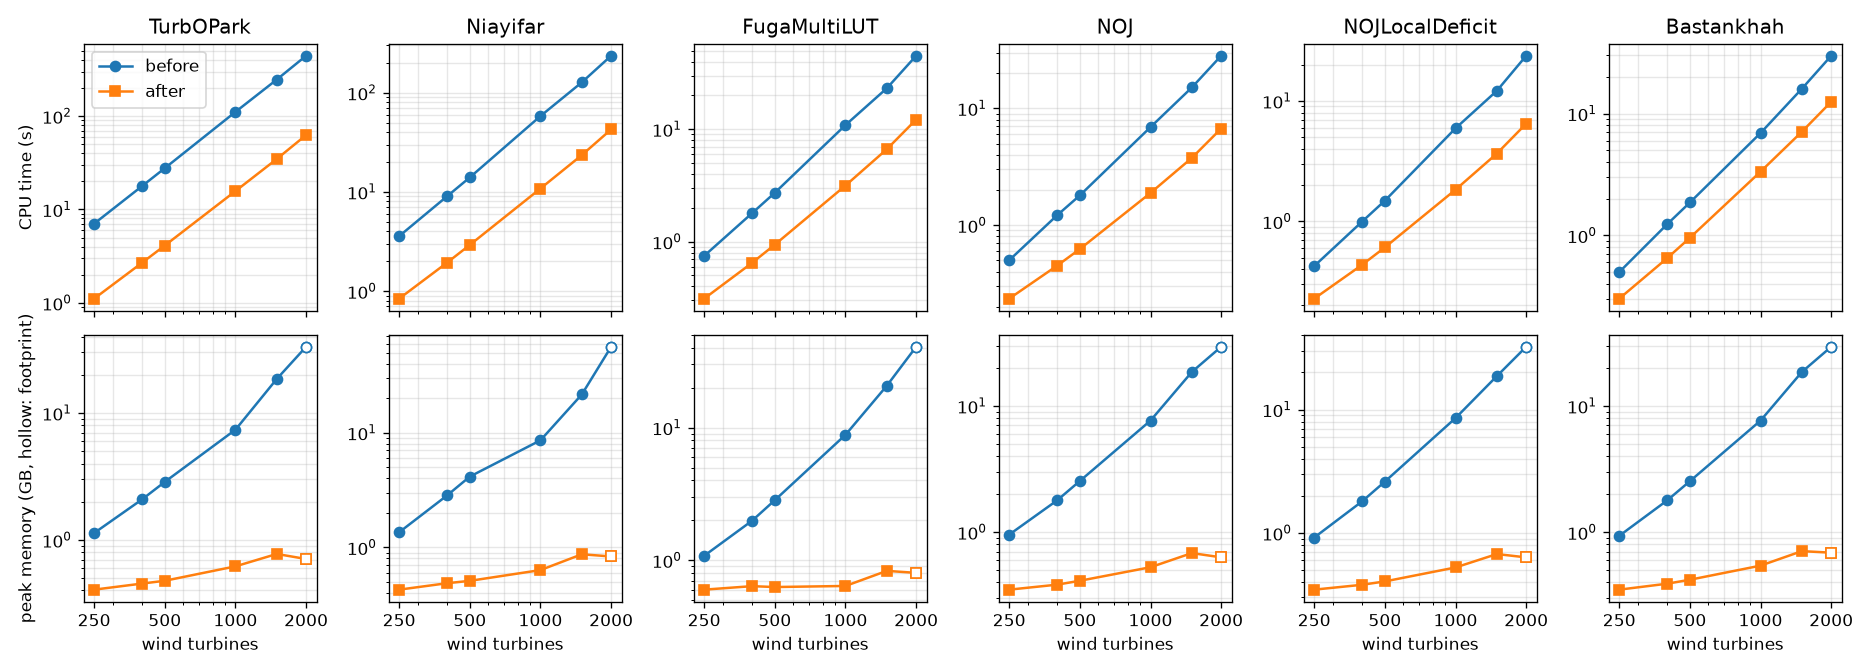
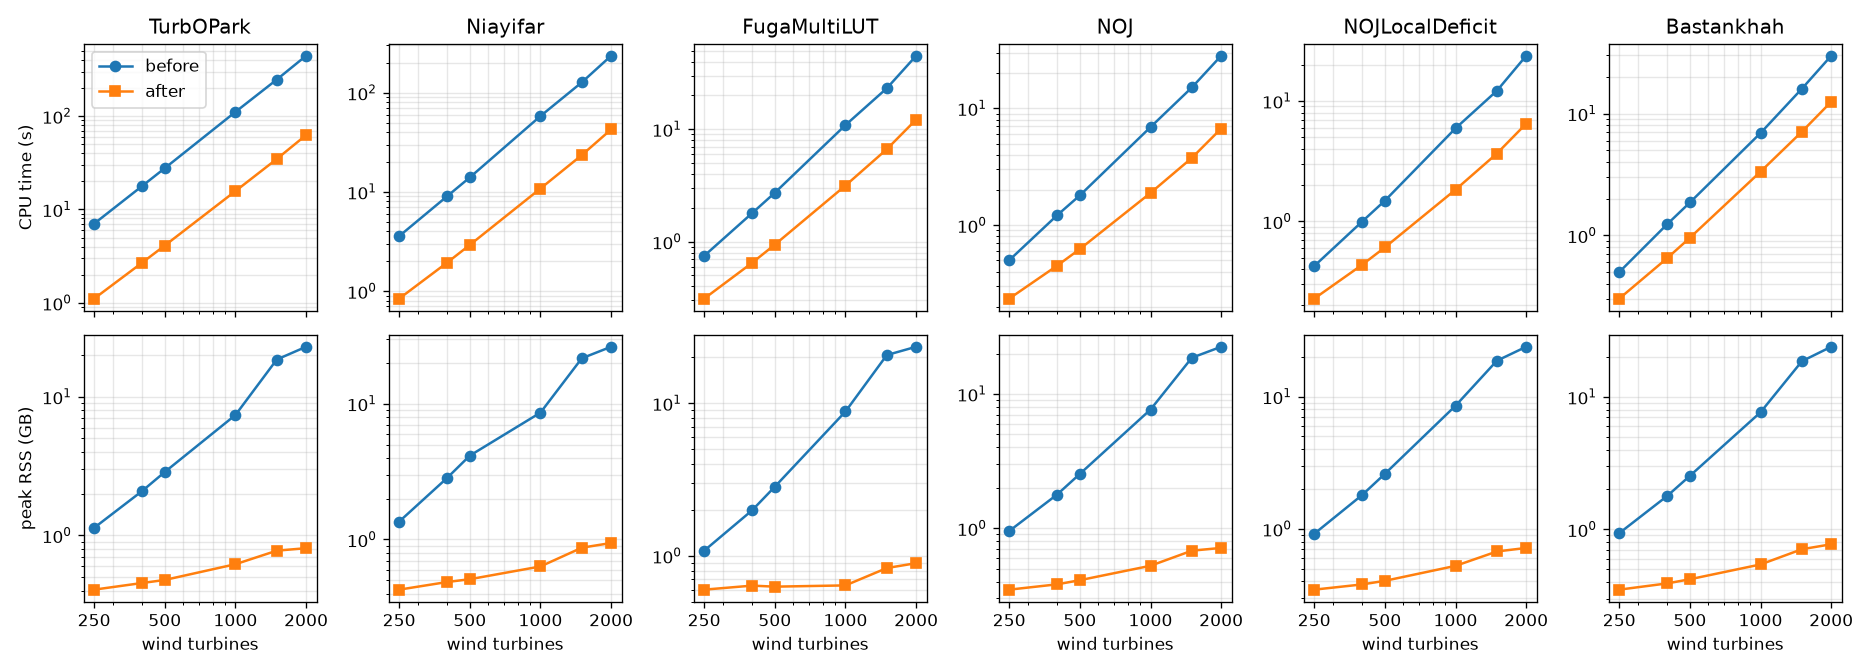
report peak rss for every farm size in the result tables and charts

diff --git a/bench/charts.py b/bench/charts.py
@@ -12,7 +12,7 @@ FARM_TICKS = [250, 500, 1000, 2000]
 
 
 def scaling(args):
-    rows = comparisons(args.inputs, args.footprint)
+    rows = comparisons(args.inputs)
     models = [model for model in MODELS if any(row_model == model for _, row_model in rows)]
     figure, axes = plt.subplots(2, len(models), figsize=(2.6 * len(models), 5.6), sharex=True, squeeze=False)
     for column, model in enumerate(models):
@@ -21,15 +21,7 @@ def scaling(args):
             done = [(size, sides[side]) for size, sides in points if "failed" not in sides[side]]
             sizes = [size for size, _ in done]
             line = axes[0, column].plot(sizes, [run["cpu"] for _, run in done], style, label=label)[0]
-            axes[1, column].plot(sizes, [run["memory"] / GB for _, run in done], style, color=line.get_color())
-            footprints = [(size, run) for size, run in done if run["is_footprint"]]
-            axes[1, column].plot(
-                [size for size, _ in footprints],
-                [run["memory"] / GB for _, run in footprints],
-                style[0],
-                color=line.get_color(),
-                markerfacecolor="white",
-            )
+            axes[1, column].plot(sizes, [run["rss"] / GB for _, run in done], style, color=line.get_color())
         axes[0, column].set_title(MODELS[model])
         axes[1, column].set_xlabel("wind turbines")
         for axis in axes[:, column]:
@@ -39,7 +31,7 @@ def scaling(args):
         axes[1, column].set_xticks(FARM_TICKS, [str(size) for size in FARM_TICKS])
         axes[1, column].xaxis.set_minor_formatter(NullFormatter())
     axes[0, 0].set_ylabel("CPU time (s)")
-    axes[1, 0].set_ylabel("peak memory (GB, hollow: footprint)")
+    axes[1, 0].set_ylabel("peak RSS (GB)")
     axes[0, 0].legend()
     figure.tight_layout()
     figure.savefig(args.out, dpi=120)
@@ -77,9 +69,6 @@ def main():
     commands = parser.add_subparsers(dest="command", required=True)
     scaling_parser = commands.add_parser("scaling", help="time and memory against farm size, later files win")
     scaling_parser.add_argument("inputs", nargs="+")
-    scaling_parser.add_argument(
-        "--footprint", nargs="*", default=[], help="reports whose memory is the footprint, applied last"
-    )
     scaling_parser.add_argument("--out", required=True)
     waterfall_parser = commands.add_parser("waterfall", help="speed-up and memory after each commit")
     waterfall_parser.add_argument("input")

diff --git a/bench/tables.py b/bench/tables.py
@@ -39,7 +39,7 @@ def compare(args):
     print("| Farm | Model | Time before | Time after | Speed-up | Memory before | Memory after | Less memory |")
     print("| --- | --- | ---: | ---: | ---: | ---: | ---: | ---: |")
     previous = None
-    for (size, model), sides in comparisons(args.inputs, args.footprint).items():
+    for (size, model), sides in comparisons(args.inputs).items():
         if args.farms and size not in args.farms:
             continue
         base, head = sides["base"], sides["head"]
@@ -50,9 +50,9 @@ def compare(args):
             time_cell(base),
             time_cell(head),
             factor(base["cpu"] / head["cpu"]) if complete else "-",
-            memory_cell(base["memory"], base),
-            memory_cell(head["memory"], head),
-            factor(base["memory"] / head["memory"]) if complete else "-",
+            memory_cell(base["rss"], base),
+            memory_cell(head["rss"], head),
+            factor(base["rss"] / head["rss"]) if complete else "-",
         ]
         previous = size
         print(markdown_row(cells))
@@ -90,9 +90,6 @@ def main():
     commands = parser.add_subparsers(dest="command", required=True)
     compare_parser = commands.add_parser("compare", help="one table from speed.py reports, later files win")
     compare_parser.add_argument("inputs", nargs="+")
-    compare_parser.add_argument(
-        "--footprint", nargs="*", default=[], help="reports whose memory is the footprint, applied last"
-    )
     compare_parser.add_argument("--farms", nargs="*", type=int, help="farm sizes to keep")
     waterfall_parser = commands.add_parser("waterfall", help="per-commit tables from a waterfall.py report")
     waterfall_parser.add_argument("input")

diff --git a/bench/results.py b/bench/results.py
@@ -24,20 +24,12 @@ def farm_size(farm):
     return int(match.group(1)) if match else None
 
 
-def memory(side, footprint):
-    return side["footprint"] if footprint else side["rss"]
-
-
-def comparisons(paths, footprint_paths=()):
+def comparisons(paths):
     rows = {}
-    for path in [*paths, *footprint_paths]:
+    for path in paths:
         for case, sides in read(path)["results"].items():
             model, farm = case.split("-")
             size = farm_size(farm)
             if size and model in MODELS:
-                footprint = path in footprint_paths
-                rows[size, model] = {
-                    side: {**sides[side], "memory": memory(sides[side], footprint), "is_footprint": footprint}
-                    for side in ("base", "head")
-                }
+                rows[size, model] = {side: sides[side] for side in ("base", "head")}
     return dict(sorted(rows.items(), key=lambda item: (item[0][0], list(MODELS).index(item[0][1]))))

diff --git a/bench/RESULTS.md b/bench/RESULTS.md
@@ -1,31 +1,45 @@
+---
+created: 2026-11-02T08:41
+updated: 2026-11-02T09:19
+---
 # Results
 
-Upstream `master` (before, `586aec8e`) against `performance` (after, library code at `e578ba85`).
-Every change keeps the simulation results byte-identical to `master`, and no upstream test that
-passes on `master` fails on `performance`.
+Upstream `master` (before, `586aec8e`) compared with `performance` (after, library code at
+`e578ba85`). Every change keeps the simulation results byte-identical to `master`, and no upstream
+test that passes on `master` fails on `performance`.
 
-- 1.9-7.1x faster on one thread on farms of 400-2000 turbines: TurbOPark (`Nygaard_2022`) 6.6-7.1x,
-  Niayifar 4.7-5.5x, FugaMultiLUT 2.8-3.7x, NOJ 2.7-4.2x, `NOJLocalDeficit` 2.3-3.7x, Bastankhah
-  1.9-2.4x.
-- 3-68x less peak memory. After, it stays under 1 GB up to 2000 turbines (0.38-0.64 GB at 400).
-  `master` grows with the square of the turbine count and needs 29-56 GB at 2000 turbines,
-  where its RSS saturates at 22-26 GB on this 36 GB machine and macOS compresses the rest.
-- `WS_eff`, `TI_eff`, `CT`, `Power` and AEP are byte-identical (`tobytes()`) to `master` on every
-  benchmark case below.
+- 1.9-7.1x faster on one thread for farms of 400-2000 turbines: TurbOPark (`Nygaard_2022`)
+  6.6-7.1x, Niayifar 4.7-5.5x, FugaMultiLUT 2.8-3.7x, NOJ 2.7-4.2x, `NOJLocalDeficit` 2.3-3.7x and
+  Bastankhah 1.9-2.4x.
+- 3-33x less peak memory. After, a simulation stays under 1 GB up to 2000 turbines. Before, memory
+  grows with the square of the turbine count and no longer fits in 36 GB of RAM at 2000 turbines.
+- `WS_eff`, `TI_eff`, `CT`, `Power` and AEP are byte-identical (`tobytes()`) to `master` in every
+  benchmark case.
 
 ## Before and after
 
-Apple M4 Max (36 GB RAM), Python 3.12.16, numpy 2.5.4, numba 0.68.0, xarray 2026.9.0, one thread.
-Models (`cases.py`): TurbOPark is `Nygaard_2022`, Niayifar is `Niayifar_PorteAgel_2016`, NOJ is `NOJ`,
-`NOJLocalDeficit` uses `ct2a_mom1d`, area overlap and `LinearSum` in `PropagateDownwind`, Bastankhah
-is `IEA37SimpleBastankhahGaussian` and FugaMultiLUT is `FugaMultiLUTDeficit` with two LUTs. Farms: two turbine types, 72 wind directions x 22 wind speeds (`scale<N>` in `cases.py`; `scale400`
-is `grid400`). Times are the CPU time of one simulation call, the median over fresh processes that
-alternate before and after (400 turbines: 5 pairs, 1000 and 1500: 3 pairs, 2000: 1 pair). Memory is
-the peak RSS of the process, except at 2000 turbines: `master` no longer fits in RAM there (its RSS
-saturates at 22-26 GB while macOS compresses the rest), so that row shows the physical footprint, and
-`master`'s time there includes compression and paging. Each process at 2000 turbines ran one
-simulation, so the after times there include numba compilation. At 1500 turbines the footprint of `master`
-was 32.1 GB for Niayifar and 23.1 GB for FugaMultiLUT, above the RSS shown.
+Apple M4 Max with 36 GB RAM, Python 3.12.16, numpy 2.5.4, numba 0.68.0 and xarray 2026.9.0, one
+thread. Each farm has two turbine types and 72 wind directions x 22 wind speeds (`scale<N>` in
+`cases.py`; `scale400` is `grid400`). The models, from `cases.py`:
+
+| Name | Model |
+| --- | --- |
+| TurbOPark | `Nygaard_2022` |
+| Niayifar | `Niayifar_PorteAgel_2016` |
+| FugaMultiLUT | `FugaMultiLUTDeficit` with two LUTs |
+| NOJ | `NOJ` |
+| NOJLocalDeficit | `NOJLocalDeficit` with `ct2a_mom1d`, area overlap and `LinearSum` in `PropagateDownwind` |
+| Bastankhah | `IEA37SimpleBastankhahGaussian` |
+
+Time is the CPU time of one simulation call: the median over fresh processes that alternate before
+and after (5 pairs at 400 turbines, 3 at 1000 and 1500, 1 at 2000). Memory is the peak RSS of the
+process.
+
+At 2000 turbines `master` no longer fits in RAM. Its RSS saturates at 22-26 GB while macOS
+compresses the rest (physical footprint 29-56 GB), so the memory ratios in that row are lower
+bounds and the before times include compression and paging. The same holds for Niayifar and
+FugaMultiLUT at 1500 turbines, where the footprint of `master` was 32.1 and 23.1 GB. Each process at
+2000 turbines ran a single simulation, so the after times there include numba compilation.
 
 | Farm | Model | Time before | Time after | Speed-up | Memory before | Memory after | Less memory |
 | --- | --- | ---: | ---: | ---: | ---: | ---: | ---: |
@@ -47,23 +61,24 @@ was 32.1 GB for Niayifar and 23.1 GB for FugaMultiLUT, above the RSS shown.
 | | NOJ | 15.1 s | 3.8 s | 4.0x | 18.6 GB | 0.68 GB | 27x |
 | | NOJLocalDeficit | 12.2 s | 3.7 s | 3.3x | 18.7 GB | 0.67 GB | 28x |
 | | Bastankhah | 16.0 s | 7.1 s | 2.3x | 18.6 GB | 0.71 GB | 26x |
-| 2000 WTGs | TurbOPark | 443 s | 62.7 s | 7.1x | 33.3 GB | 0.71 GB | 47x |
-| | Niayifar | 236 s | 42.6 s | 5.5x | 56.3 GB | 0.83 GB | 68x |
-| | FugaMultiLUT | 45.1 s | 12.2 s | 3.7x | 40.7 GB | 0.80 GB | 51x |
-| | NOJ | 28.2 s | 6.7 s | 4.2x | 29.5 GB | 0.63 GB | 47x |
-| | NOJLocalDeficit | 23.8 s | 6.5 s | 3.7x | 32.3 GB | 0.63 GB | 51x |
-| | Bastankhah | 29.8 s | 12.5 s | 2.4x | 29.4 GB | 0.69 GB | 43x |
+| 2000 WTGs | TurbOPark | 443 s | 62.7 s | 7.1x | 23.0 GB | 0.81 GB | 28x |
+| | Niayifar | 236 s | 42.6 s | 5.5x | 26.2 GB | 0.94 GB | 28x |
+| | FugaMultiLUT | 45.1 s | 12.2 s | 3.7x | 23.5 GB | 0.89 GB | 26x |
+| | NOJ | 28.2 s | 6.7 s | 4.2x | 22.5 GB | 0.71 GB | 31x |
+| | NOJLocalDeficit | 23.8 s | 6.5 s | 3.7x | 23.8 GB | 0.72 GB | 33x |
+| | Bastankhah | 29.8 s | 12.5 s | 2.4x | 23.9 GB | 0.77 GB | 31x |
 
 ![Time and peak memory against farm size](scaling.png)
 
-In the chart, 250 and 500 turbines are included (`scale250`, `scale500`) and hollow markers are the
-physical footprint, as in the 2000 row.
+The chart adds 250 and 500 turbines (`scale250`, `scale500`). The before memory curve flattens
+between 1500 and 2000 turbines because RSS saturates in RAM there; the footprint keeps growing.
 
 ## Where the gain comes from
 
-`grid400` (400 turbines), 3 alternating pairs per commit, median CPU time; the cumulative speed-up
-over `master` is in brackets. Each row is one commit on `performance`, oldest first. These are
-separate runs from the table above, so the last row differs from its 400-turbine rows by up to 0.1x.
+Each row is one commit on `performance` that changes library code, oldest first, timed on `grid400`
+(400 turbines) as the median CPU time of 3 alternating pairs. The cumulative speed-up over `master`
+is in brackets. These runs are separate from the table above, so the last row can differ from its
+400-turbine rows by up to 0.1x.
 
 ![Speed-up and peak memory after each commit](waterfall.png)
 
@@ -93,80 +108,58 @@ separate runs from the table above, so the last row differs from its 400-turbine
 | 5ec051b2 | compute the masked crespo added turbulence in one compiled loop | 2.7 s (6.6x) | 1.9 s (4.6x) | 0.92 s (1.9x) | 0.45 s (2.6x) | 0.44 s (2.2x) | 0.65 s (1.8x) |
 | e578ba85 | start the irregular grid axis search from a cached guess and widen it exactly | 2.7 s (6.6x) | 1.9 s (4.6x) | 0.65 s (2.7x) | 0.45 s (2.6x) | 0.44 s (2.2x) | 0.65 s (1.8x) |
 
-Peak memory drops mostly at one point: accumulating the superposition per turbine instead of
-storing every turbine pair's deficit (`444b22fa`, and `b4dbc808` for Niayifar's added turbulence).
-From there it stays at 0.33-0.63 GB on `grid400` and, as the scaling chart shows, grows far slower
-than the farm.
-
-## Method
-
-- `speed.py` runs every case in a fresh process with one thread (`NUMBA_NUM_THREADS=1` and the BLAS
-  equivalents), alternating `master` and `performance`, and runs `gc.collect()` before each timed
-  simulation. The tables show the second simulation in each process. The first is 0.2-1.6 s slower
-  after, which includes numba compilation, and up to 0.5 s slower before (up to 1.6 s at 1500
-  turbines). The new kernels are compiled lazily and not cached on disk (no `cache=True`). The 1500
-  and 2000 turbine runs used `--min-free 0`, because `master` needs more memory there than the
-  default guard allows.
-- `waterfall.py` times `master` and each commit on `performance` that changes `py_wake/` outside the
-  tests, in detached worktrees, alternating the order between pairs.
-- `identity.py` saves `WS_eff`, `TI_eff`, `CT`, `Power` and total AEP from each checkout and compares
-  them bytewise.
-- `tables.py` and `charts.py` turn the JSON reports into these tables and charts.
-
-The commands, from `bench/` with `master` and `performance` checked out next to each other
-(`M` is the six models):
-
-```sh
-M="turbopark niayifar fugamultilut noj nojlocal bastankhah"
-cases() { for m in $M; do printf "%s-%s " "$m" "$1"; done; }
-python speed.py --base ../../master --head .. --pairs 5 --runs 2 --out headline.json
-python speed.py --base ../../master --head .. --pairs 3 --runs 2 --out scale-small.json \
-  --cases $(cases scale250) $(cases scale500) $(cases scale1000)
-python speed.py --base ../../master --head .. --pairs 3 --runs 2 --min-free 0 --out scale1500.json \
-  --cases $(cases scale1500)
-python speed.py --base ../../master --head .. --pairs 1 --runs 1 --min-free 0 --timeout 10800 \
-  --out scale2000.json --cases $(cases scale2000)
-python waterfall.py --repo .. --commits master master..e578ba85 --workdir ../../waterfall --pairs 3 \
-  --runs 2 --out waterfall.json --cases $(cases grid400)
-python tables.py compare headline.json scale-small.json scale1500.json --footprint scale2000.json \
-  --farms 400 1000 1500 2000
-python tables.py waterfall waterfall.json
-python charts.py scaling headline.json scale-small.json scale1500.json --footprint scale2000.json \
-  --out scaling.png
-python charts.py waterfall waterfall.json --out waterfall.png
-```
+Most of the memory reduction comes from one change: accumulating the superposition per turbine
+instead of storing every turbine pair's deficit (`444b22fa`, plus `b4dbc808` for Niayifar's added
+turbulence). After it, peak memory on `grid400` is 0.33-0.63 GB and grows far slower than the farm.
 
 ## Exactness
 
 `identity.py` compared `master` and `performance` on 49 cases: the 19 default cases (`hr1`,
-`grid400` and `aligned100` for the six models, `fuga` on `hr1`) and `scale250`, `scale500`, `scale1000`,
-`scale1500` and `scale2000` for the six models in the table. `WS_eff`, `TI_eff`, `CT`, `Power` and
-AEP are byte-identical in every case.
+`grid400` and `aligned100` for the six models, plus `fuga` on `hr1`) and `scale250`, `scale500`,
+`scale1000`, `scale1500` and `scale2000` for the six models. `WS_eff`, `TI_eff`, `CT`, `Power` and
+AEP are byte-identical in every case. The results match for these reasons:
 
-- The new kernels use only `+ - * /`, `sqrt`, `min`, `max`, `abs`, `floor` and comparisons, in numpy's order
-  of operations. `log`, `exp`, `arccos` and powers stay in numpy. They use no `fastmath`, no float32
-  and no reassociation, and their IR contains no fused multiply-add.
-- Accumulating the superposition per turbine reproduces numpy's sum because numpy reduces axis 0 of
-  a C-ordered array sequentially when each row holds more than one value; the accumulating path is
-  only taken in that case.
-- Every compiled path is guarded: it runs only with the numpy backend on real float64 arrays.
-  Autograd, complex-step and `Numpy32` inputs fall back to the stock code, so gradients keep working.
-- Compiled kernels do not emit numpy's floating-point `RuntimeWarning`s and ignore `np.errstate`.
+- The new kernels use only `+ - * /`, `sqrt`, `min`, `max`, `abs`, `floor` and comparisons, in
+  numpy's order of operations. `log`, `exp`, `arccos` and powers stay in numpy. The kernels use no
+  `fastmath`, float32 or reassociation, and their IR has no fused multiply-add.
+- Accumulating per turbine reproduces numpy's sum, because numpy reduces axis 0 of a C-ordered array
+  sequentially when each row holds more than one value. The accumulating path only runs in that
+  case.
+- Compiled paths run only with the numpy backend on real float64 arrays. Autograd, complex-step and
+  `Numpy32` inputs use the stock code, so gradients keep working.
 
-The upstream test suite was run on both checkouts on the same day and machine (`pytest py_wake/tests
--n 8`). `performance` runs 1876 tests (`master` 1345; the fork adds tests for its compiled paths, guards
-and fallbacks). Both fail exactly the same 24 tests and 3 collection errors in this
-environment: optional packages that are not installed (load surrogates, line profiling), downloads
-from DTU servers that were unreachable during the run, five notebooks, one parallelization test, one
-NEWA Weibull test and 11 blockage-model gradient tests. `test_model_gradients.py` run alone also
-fails the same 11 tests on both.
+One behavior differs: compiled kernels do not emit numpy's floating-point `RuntimeWarning`s and
+ignore `np.errstate`.
+
+The upstream test suite (`pytest py_wake/tests -n 8`) ran on both checkouts on the same day and
+machine. `performance` runs 1876 tests and `master` 1345; the extra tests cover the compiled paths,
+guards and fallbacks. Both fail the same 24 tests and 3 collection errors in this environment:
+optional packages that are not installed (load surrogates, line profiling), downloads from DTU
+servers that were unreachable during the run, five notebooks, one parallelization test, one NEWA
+Weibull test and 11 blockage-model gradient tests. Run alone, `test_model_gradients.py` fails the
+same 11 tests on both.
+
+## Method
+
+- `speed.py` runs each case in a fresh process on one thread (`NUMBA_NUM_THREADS=1` and the BLAS
+  equivalents), alternating `master` and `performance`, with `gc.collect()` before each timed
+  simulation. The tables show the second simulation in each process. The first is 0.2-1.6 s slower
+  after because it includes numba compilation, and up to 0.5 s slower before (up to 1.6 s at 1500
+  turbines). The kernels compile lazily and are not cached on disk (no `cache=True`). The 1500 and
+  2000 turbine runs had the memory guard off (`--min-free 0`), because `master` needs more memory
+  there than the default guard allows.
+- `waterfall.py` times `master` and each commit on `performance` that changes `py_wake/` outside the
+  tests, in detached worktrees, alternating the order between pairs.
+- `identity.py` saves `WS_eff`, `TI_eff`, `CT`, `Power` and total AEP from each checkout and
+  compares them byte for byte.
+- `tables.py` and `charts.py` build the tables and charts from the JSON reports. Usage is in
+  [README.md](README.md).
 
 ## Notes for upstream
 
 - py_wake already depends on numba (`shadow_models`), so the kernels add no dependency.
-- `test_memory_usage` always passes: it unpacks the `(result, memory)` pair of
-  `check_memory_usage` in the wrong order, so it compares the simulation result instead of the
-  memory.
-- Two kernels started from candidates found with OpenEvolve, an LLM-driven code search: the fused
+- `test_memory_usage` always passes. It unpacks the `(result, memory)` pair from
+  `check_memory_usage` in the wrong order, so it checks the simulation result instead of the memory.
+- Two kernels started from candidates found by OpenEvolve, an LLM-driven code search: the fused
   Gaussian overlap factor and the guessed search on irregular grid axes. Both were ported by hand
   and pass the same identity and test checks as the rest.

diff --git a/bench/README.md b/bench/README.md
@@ -45,9 +45,8 @@ python bench/charts.py waterfall waterfall.json --out waterfall.png
   once as a detached worktree under `--workdir` (remove them with `git worktree remove`).
 - `tables.py` prints `speed.py` reports as one before and after table (time, speed-up, memory and how
   many times less memory) and `waterfall.py` reports as per-commit time and memory tables. `charts.py`
-  draws time and peak memory against farm size and the speed-up and memory after each commit. Later
-  reports override earlier ones for the same case, and `--footprint` marks reports whose memory column
-  is the peak footprint instead of RSS.
+  draws time and peak memory against farm size and the speed-up and memory after each commit. Memory is
+  the peak RSS, and later reports override earlier ones for the same case.
 - Cases are `<model>-<farm>`. Models: `turbopark` (`Nygaard_2022`: TurboGaussian, Mirror, Gaussian
   overlap, SquaredSum, deficit scaled with the downstream ambient speed), `nojlocal` (`NOJLocalDeficit`
   with area overlap, `ct2a_mom1d`, `a=[0, 0.04]`, no effective TI, LinearSum), `fugamultilut` (two LUTs),
